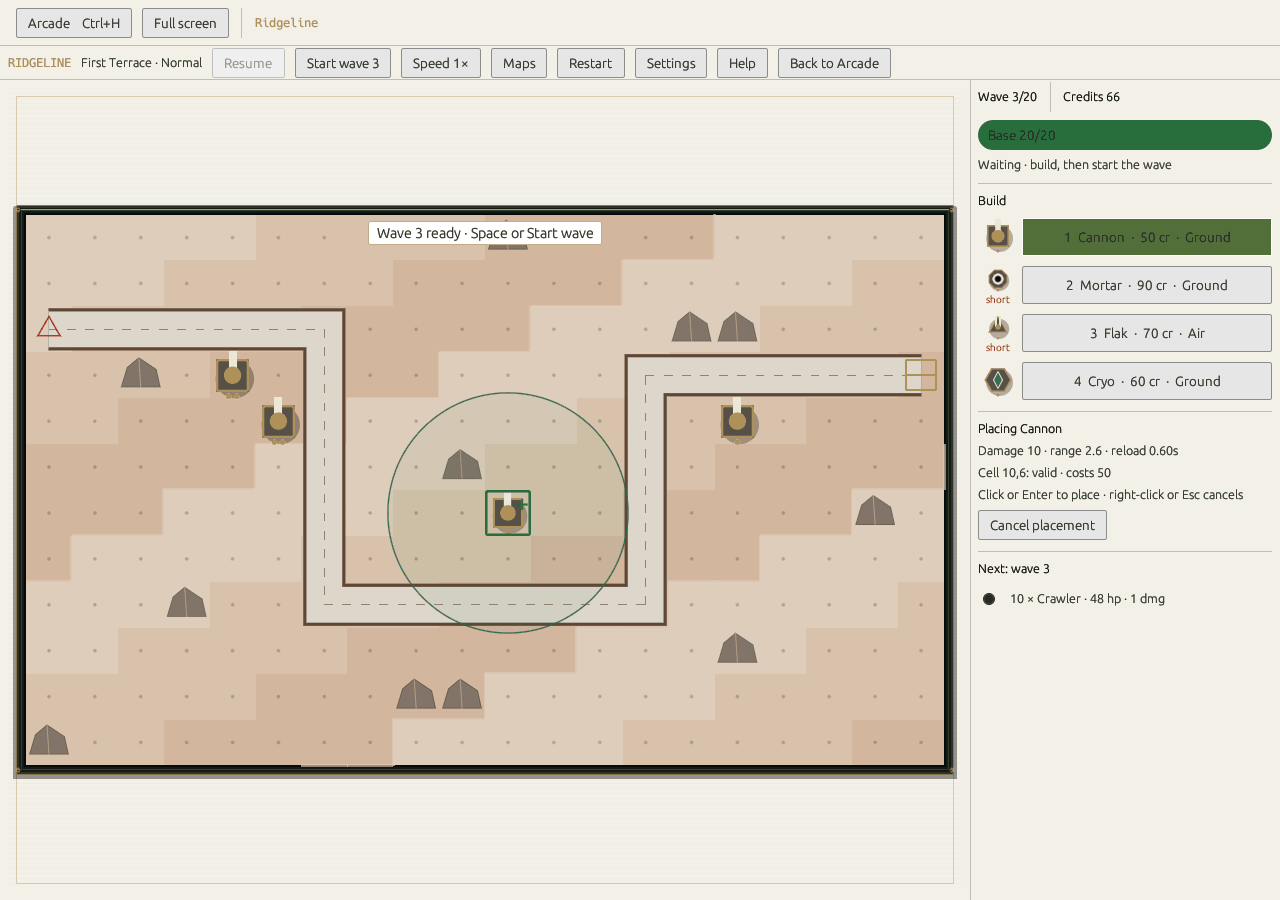
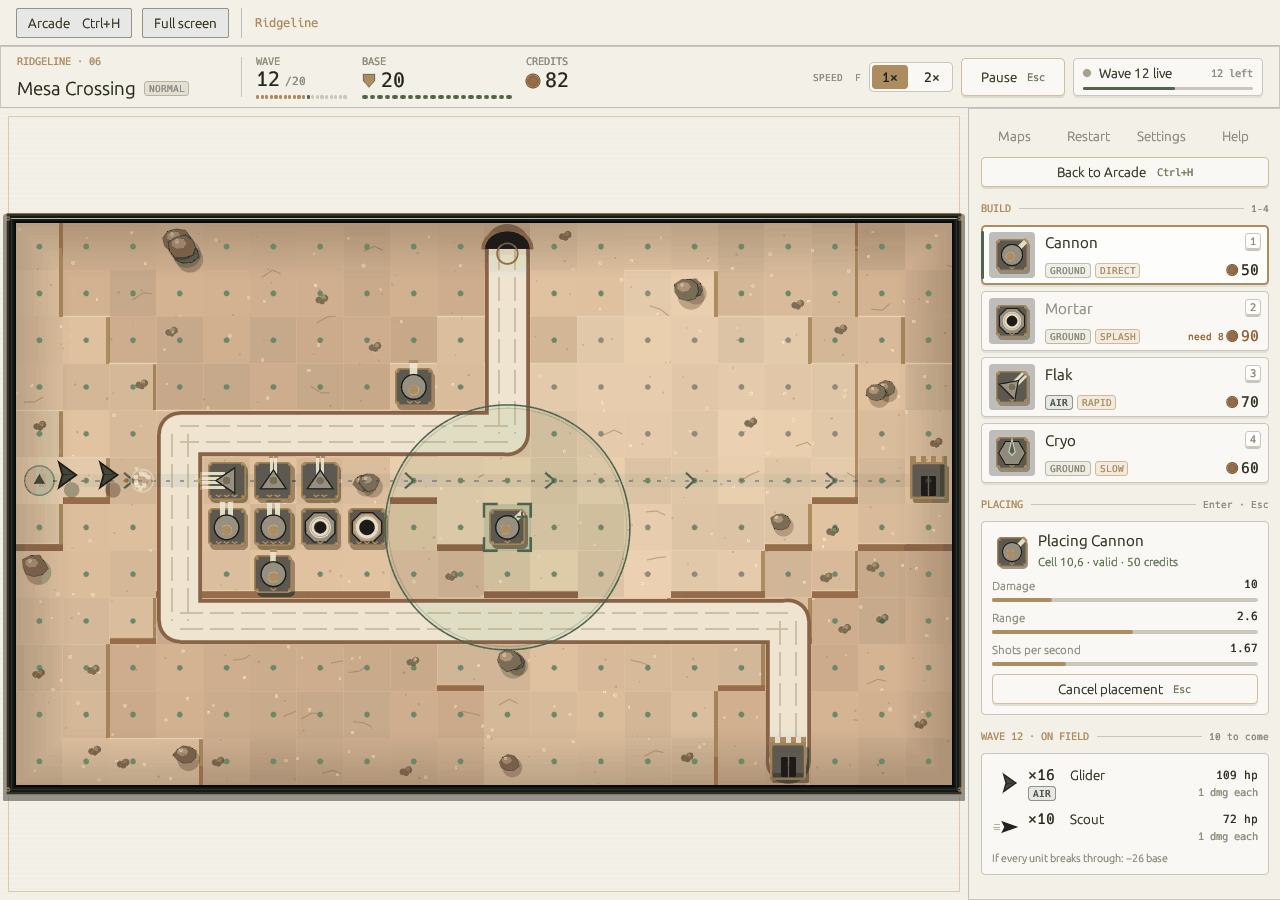
Document the Ridgeline presentation pass
Refresh review screenshots and the shelf capture, record the interface
kit, hitch handling and verification results, and update provenance.

Claude-Session: https://claude.ai/code/session_01GbUqnSkUS2YjYNa9D9gSp8

diff --git a/games/ridgeline/THIRD_PARTY.md b/games/ridgeline/THIRD_PARTY.md
@@ -6,10 +6,11 @@ under GPL-3.0-or-later.
 | Source | Contents | Creation method |
 | --- | --- | --- |
 | `src/data.rs` | Ten maps, terrain, roads, flight lanes, wave tables, tower and enemy statistics | Original authored integer data |
-| `src/art.rs` | Terraced canyon cells, rocks, etched roads, flight-lane chevrons, gates, tower silhouettes, enemy shapes and overlays | Original hand-authored egui vector geometry |
+| `src/art.rs` | Mesa plateaus with cliff faces, cracks and scrub, boulders, curbed roads with ruts, flight lanes, cave spawns, fortified gates, rotating turrets, oriented animated enemies, projectiles, particles, map thumbnails and vignettes | Original hand-authored egui vector geometry |
+| `src/ui.rs` | Interface kit: cards, chips, keycaps, buttons, segmented controls, toggles, stat bars, health pips, coin, shield, lock and medal emblems | Original hand-authored egui vector geometry |
 | `src/audio.rs` | Build, upgrade, sell, wave, breach, clear, victory and defeat cues | Original mono PCM synthesis from oscillators; no samples |
-| `docs/shelf.png` | Last Pass mid-wave (dark theme) | Unretouched native app capture from a production-engine fixture, cropped to the board and resized to 800 × 485 |
-| `docs/screenshots/` | Review captures (dark, light, compact, 200%, recovery) | Native app captures under Xvfb, colour-quantized for size |
+| `docs/shelf.png` | Last Pass mid-wave (dark theme) | Unretouched native app capture from a production-engine fixture, cropped to the board and resized to 800 × 486 |
+| `docs/screenshots/` | Review captures (inspector, light placement, map select, result, compact campaign, 200%) | Native app captures under Xvfb, colour-quantized for size |
 | `../../shared/presentation/assets/README.md` | Arcade cabinet backdrop and bezel materials | Existing approved shared asset and provenance |
 
 Canyon Defense and other tower-defence games were genre references only. No

diff --git a/DECISIONS.md b/DECISIONS.md
@@ -579,3 +579,31 @@ network access is added. Existing game order, saves and artwork are unchanged.
   four native variants, the capture loop, and a suspended-wave byte-identity
   check across the Arch package reinstall. Hands-on Omarchy/Wayland
   playtesting is still required before issue #11 is complete.
+
+## Ridgeline presentation pass (27 September 2026)
+
+Tom asked for a full UX pass. The rules, save schema, replays and host
+integration are unchanged. The frontend now has:
+
+- a Ridgeline interface kit (`src/ui.rs`): cards, chips, keycaps, focusable
+  painted buttons, segmented speed control, toggles, stat bars, base-health
+  pips and medal emblems;
+- a HUD strip with wave progress, base health and credits, plus a live wave
+  status block while a wave runs;
+- build cards with cost and shortfall, an inspector with upgrade deltas, a
+  placement preview and a threat summary for the next wave;
+- a campaign screen with map thumbnails, per-difficulty medals and a
+  continue banner;
+- designed result and modal screens.
+
+Board art moved to mesa plateaus with cliff faces, curbed roads, cave spawns,
+fortified gates, turrets that rotate toward targets and enemies oriented along
+their route. Custom widgets keep keyboard focus and Enter/Space activation,
+and expose accessible names. All art stays original vector geometry and
+theme-derived, with light and dark palettes.
+
+Clock change: hitches up to one second now run at most a quarter-second of
+ordinary ticks and drop the rest. Only longer gaps pause. Pausing on every
+250 ms hitch was disruptive, and it made the native check flaky under software
+rendering. Determinism is unaffected, because ticks are never skipped or
+scaled.

diff --git a/games/ridgeline/docs/VERIFICATION.md b/games/ridgeline/docs/VERIFICATION.md
@@ -49,6 +49,28 @@ The native script drives the real binary under Xvfb through XTest. It checks:
 Screenshots are in `screenshots/`. The 200% capture is downscaled by half for
 the repository.
 
+## Presentation pass (27 September 2026)
+
+The interface was redesigned: HUD strip, build and inspector cards, wave
+preview, campaign map picker with thumbnails and medals, result screen,
+modals, and board art. The rules, save format and replays are unchanged.
+
+| Check | Result |
+| --- | --- |
+| Ridgeline tests after the redesign | Pass: 28 unit + 2 replay tests |
+| Workspace strict Clippy and fmt | Pass |
+| `native-ridgeline.py` dark, light, compact, 200% | Pass. Dark then passed six further consecutive runs after the hitch fix below. |
+| `native-mouse.py`, fifteen games | Pass |
+
+The dark native run failed once during the pass. Cause: the heavier scene
+made one software-rendered Xvfb frame exceed 250 ms. The old clock treated
+that as a stall and auto-paused, and the test's Escape then resumed the game.
+Frame hitches up to one second now run at most a quarter-second of ticks and
+drop the rest. Only longer gaps pause. The replay test now includes a 0.6 s
+frame and still produces identical battles. Headless measurement: under 1 ms
+of CPU per frame for layout and tessellation, about 34,000 vertices for a
+busy Last Pass wave.
+
 Note: in this container, eframe's built-in `--screenshot` readback produced
 uniform grey images for every game, including existing ones. The captures above
 use X11 window grabs, as the native scripts do. CI's `--screenshot` loop is

diff --git a/games/ridgeline/README.md b/games/ridgeline/README.md
@@ -58,6 +58,9 @@ Leaving the window pauses a running wave. Resuming is always an explicit action.
   Shots already in flight keep their original damage, including after a sale.
 - 2× runs twice as many ordinary 60 Hz ticks per second. It never doubles
   damage or skips a tick.
+- If a frame is delayed by up to a second, the game runs at most a quarter
+  second of ticks and drops the rest, so the defence slows briefly instead of
+  jumping ahead. Longer gaps, such as a suspend, pause the game.
 
 Tower, enemy, map and wave data, the Hard table and the balance evidence are in
 [docs/BALANCE.md](docs/BALANCE.md).
